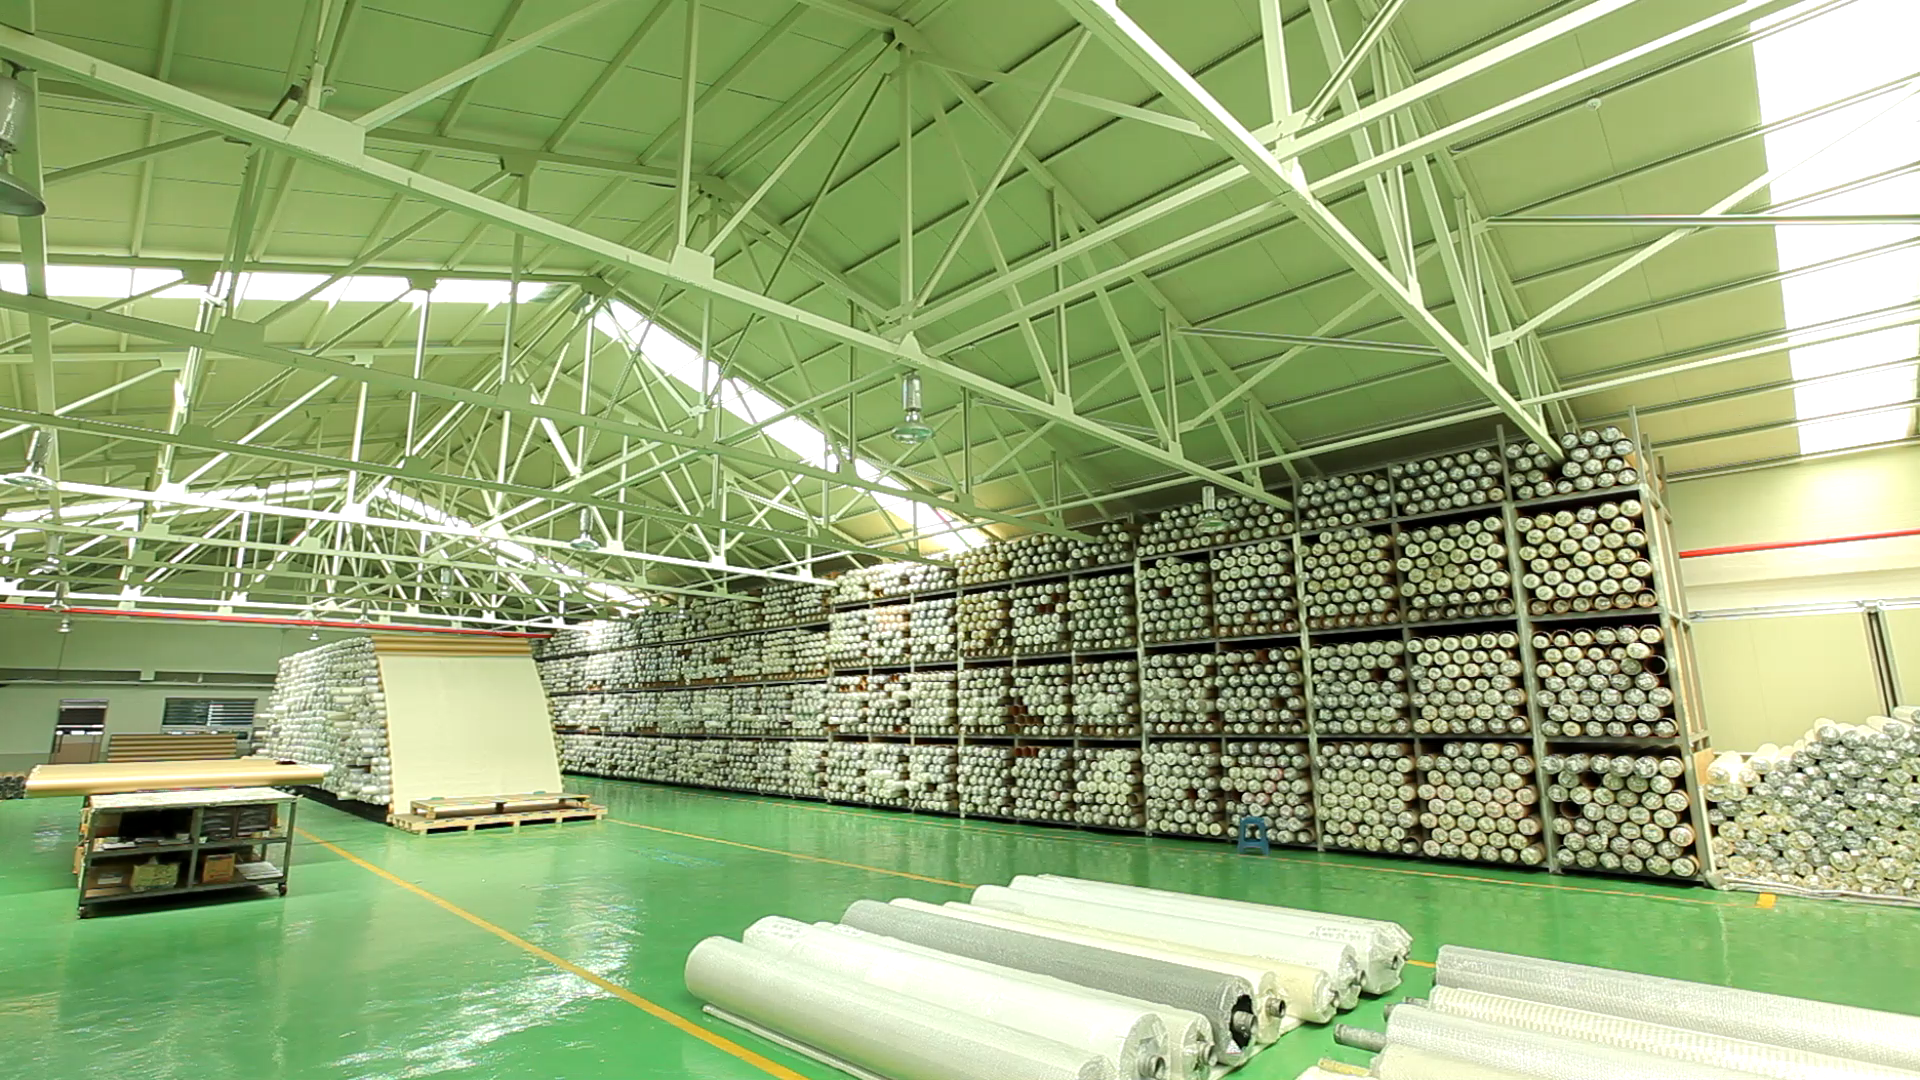
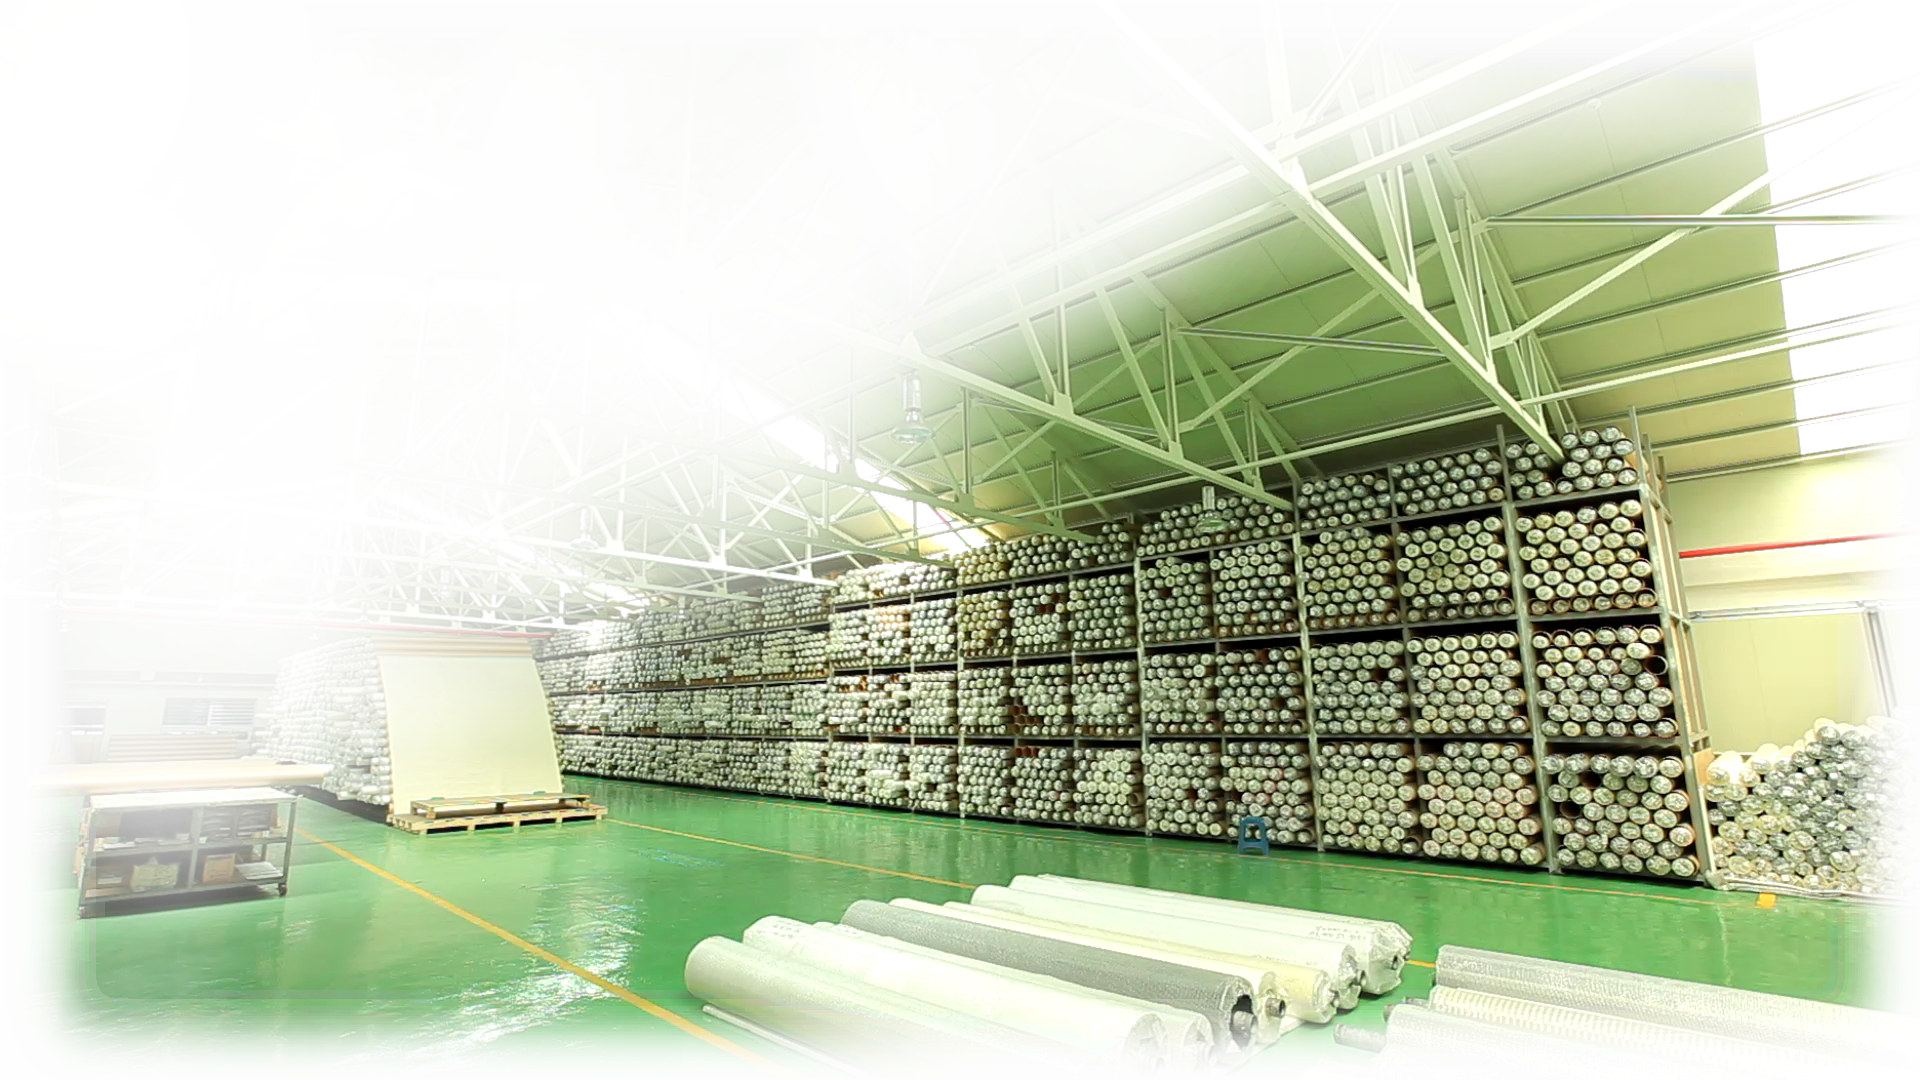
공장사진 메인 페이지에 적용

diff --git a/story-front/pages/index.tsx b/story-front/pages/index.tsx
@@ -129,15 +129,14 @@ const Home: NextPage<HomeProps> = ({ productListData }) => {
 				</div>
 			</div>
 			<div className={styles.recruit_main}>
-				<FadeIn delay={300}>
 				<div className={classFor([styles.recruit_title, styles.recruit_desc])}>
 					스토리창 <span className={styles.main}>전국 최저가</span> 블라인드 납품
 				</div>
 				<div className={classFor([styles.tag_main, styles.recruit_desc])}>
 					{TAGS.map(({ id, tag }) => <span key={id} className={styles.tag}>{tag}</span>)}
 				</div>
-				<div className={classFor([styles.recruit_description, styles.recruit_desc])} style={{ marginTop:'100px' }}>
-					ㆍ <span className={styles.main}>공장</span>에서 블라인드를 직접 제작하여, <span className={styles.main}>전국 최저가</span>로 납품해드립니다
+				<div className={classFor([styles.recruit_description, styles.recruit_desc])} style={{ marginTop:'70px' }}>
+					ㆍ <span className={styles.main}>공장</span>에서 블라인드를 직접 제작하여, <span className={styles.main}>전국 최저가</span>로 납품해드립니다.
 				</div>
 				<div className={classFor([styles.recruit_description, styles.recruit_desc])}>
 					ㆍ <span className={styles.main}>신생</span> 또는 <span className={styles.main}>소량 발주하는 업체</span>도 감사한 마음으로 친절하게 모십니다.
@@ -145,9 +144,8 @@ const Home: NextPage<HomeProps> = ({ productListData }) => {
 				<div className={classFor([styles.recruit_description, styles.recruit_desc])}>
 					ㆍ <span className={styles.main}>건설업체, 관공서, 공공기관</span>에 대량 납품 가능합니다.
 				</div>
-				</FadeIn>
 				<div className={styles.logo_box}>
-						<Image url={IMG_URL.FACTORY_PICTURE} width={900} height={506} isAnimation={false} isShadow={false} />
+						<Image url={IMG_URL.FACTORY_PICTURE} width={1140} height={641} isAnimation={false} isShadow={false} />
 				</div>
 			</div>
 			<div className={styles.card_main}>

diff --git a/story-front/pages/css/index.module.scss b/story-front/pages/css/index.module.scss
@@ -86,9 +86,14 @@
 
 .recruit_description{
     position: relative;
+	width: max-content;
     margin-top:30px;
     font-size: 1.5em;
     font-family: 'SBAggroM', sans-serif;
+	background: white;
+	padding: 5px;
+	background-color: rgba( 255, 255, 255, 0.7 );
+	border-radius: 5px;
 }
 
 .recruit_description > .main {
